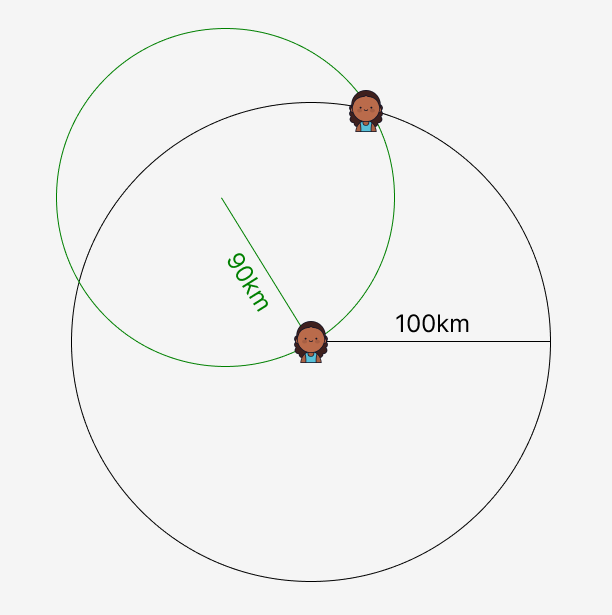
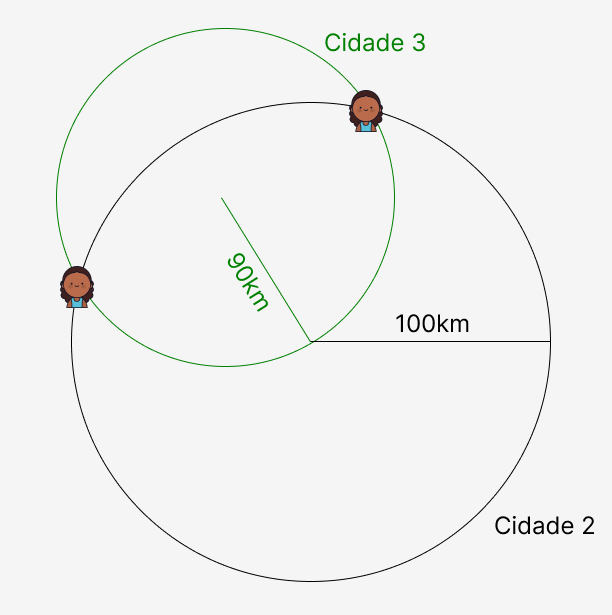
Atualizando imagens e revisão do texto do gps

diff --git a/artigos/celular/index_celular.html b/artigos/celular/index_celular.html
@@ -126,7 +126,7 @@
                 <br>
                 
                 <p>Isto significa que saber a sua posição com relação a apenas uma cidade não é 
-                suficiente. Caso o GPS saiba a sua distância a uma outra cidade, que dista
+                suficiente. Caso o GPS saiba a sua distância a mais outra cidade (cidade 3), que dista
                 90km, por exemplo, as únicas localizações possíveis são as duas indicadas na figura</p>
                 
                 <figure>
@@ -139,7 +139,10 @@
 
                 <p>Ou seja, não é possível que sua localização seja outra além das duas indicadas,
                 pois a condição de estar distante 90km de uma cidade e 100km de outra ao mesmo tempo
-                não seria satisfeita.
+                não seria satisfeita. Percebeu que ao saber a sua distância com relação a duas cidades diminuiu
+                o número de possibilidades para dois? Quais serão então as possibilidades de localização caso seja
+                conhecida a sua distância com relação a mais uma cidade (cidade 4), que dista 110km, por exemplo? 
+                Observe a figura a seguir:
                 </p>
                 <br>
                 <p>Mas para descobrir sua exata localização, o GPS precisa saber sua distância com relação a
@@ -154,7 +157,8 @@
                 </figure>
                 <br>
 
-                <p>É assim que o GPS sabe exatamente onde você está!</p>
+                <p>Desta forma, sabendo a sua distância a 3 cidades, haverá apenas um local onde você
+                poderá estar. É assim que o GPS sabe exatamente onde você está!</p>
                 <br>
                 <p>Além dessas informações, o GPS também consegue calcular a sua distância ao do 
                 satélite. Isto é possível pois o satélite e o GPS possuem relógios extremamente 

diff --git a/artigos/celular/style_celular.css b/artigos/celular/style_celular.css
@@ -179,6 +179,35 @@ h1{
     main{
         width: 90%;
     }
+
+    .menu_superior a{
+        display: block;
+        margin-top: 0;
+    }
+
+    .menu_superior li{
+        font-size: 20px;
+    }
+
+    .menu_superior ul{
+        margin-right: 4%;
+    }
+
+    .distancia_pontos img{
+        width: 90%;
+    }
+
+    .celular_completo{
+        width: 30%;
+    }
+
+    .satelites_orbitando_terra{
+        width: 80%;
+    }
+
+    p{
+        font-size: 23px;
+    }
+
+
 }
-
-
